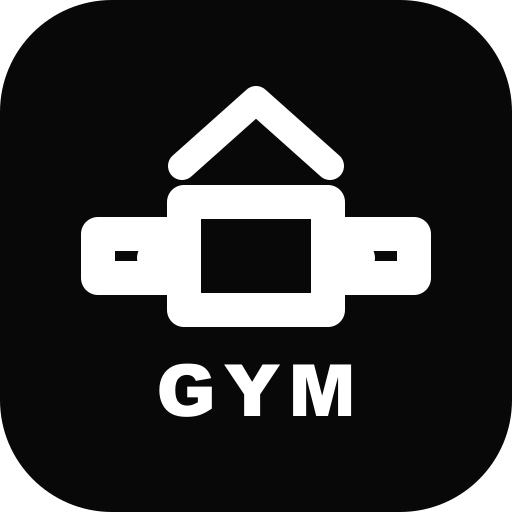
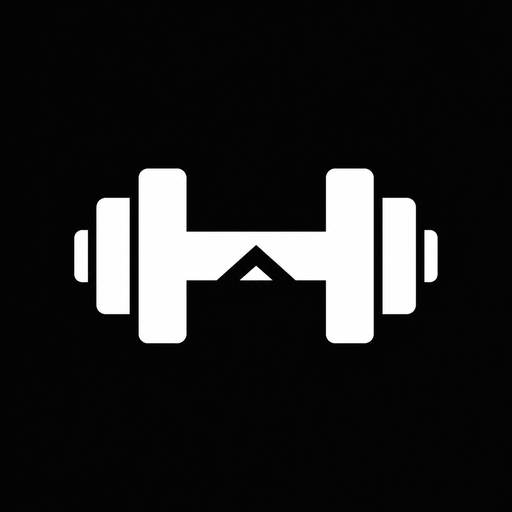
Renueva el icono PWA de Gymletics

diff --git a/public/sw.js b/public/sw.js
@@ -1,7 +1,12 @@
-const CACHE = 'gymletics-shell-v2';
+const CACHE = 'gymletics-shell-v3';
 const SCOPE_ROOT = new URL('./', self.registration.scope).pathname;
 const scopedPath = (path) => new URL(path, self.registration.scope).pathname;
-const SHELL = [SCOPE_ROOT, scopedPath('manifest.webmanifest'), scopedPath('icon.svg')];
+const SHELL = [
+  SCOPE_ROOT,
+  scopedPath('manifest.webmanifest'),
+  scopedPath('icon-192.png'),
+  scopedPath('icon-maskable-512.png'),
+];
 
 self.addEventListener('install', (event) => {
   event.waitUntil(caches.open(CACHE).then((cache) => cache.addAll(SHELL)));
@@ -22,7 +27,7 @@ self.addEventListener('fetch', (event) => {
       fetch(event.request)
         .then((response) => {
           const copy = response.clone();
-          caches.open(CACHE).then((cache) => cache.put(SCOPE_ROOT, copy));
+          void caches.open(CACHE).then((cache) => cache.put(SCOPE_ROOT, copy));
           return response;
         })
         .catch(() => caches.match(SCOPE_ROOT)),
@@ -33,7 +38,7 @@ self.addEventListener('fetch', (event) => {
     caches.match(event.request).then((cached) => cached ?? fetch(event.request).then((response) => {
       if (response.ok && new URL(event.request.url).origin === self.location.origin) {
         const copy = response.clone();
-        caches.open(CACHE).then((cache) => cache.put(event.request, copy));
+        void caches.open(CACHE).then((cache) => cache.put(event.request, copy));
       }
       return response;
     })),

diff --git a/app/layout.tsx b/app/layout.tsx
@@ -39,7 +39,10 @@ export const metadata: Metadata = {
     images: [socialImage.toString()],
   },
   icons: {
-    icon: publicAsset('/icon.svg'),
+    icon: [
+      { url: publicAsset('/favicon-32.png'), sizes: '32x32', type: 'image/png' },
+      { url: publicAsset('/icon-192.png'), sizes: '192x192', type: 'image/png' },
+    ],
     apple: publicAsset('/apple-touch-icon.png'),
   },
   appleWebApp: {
